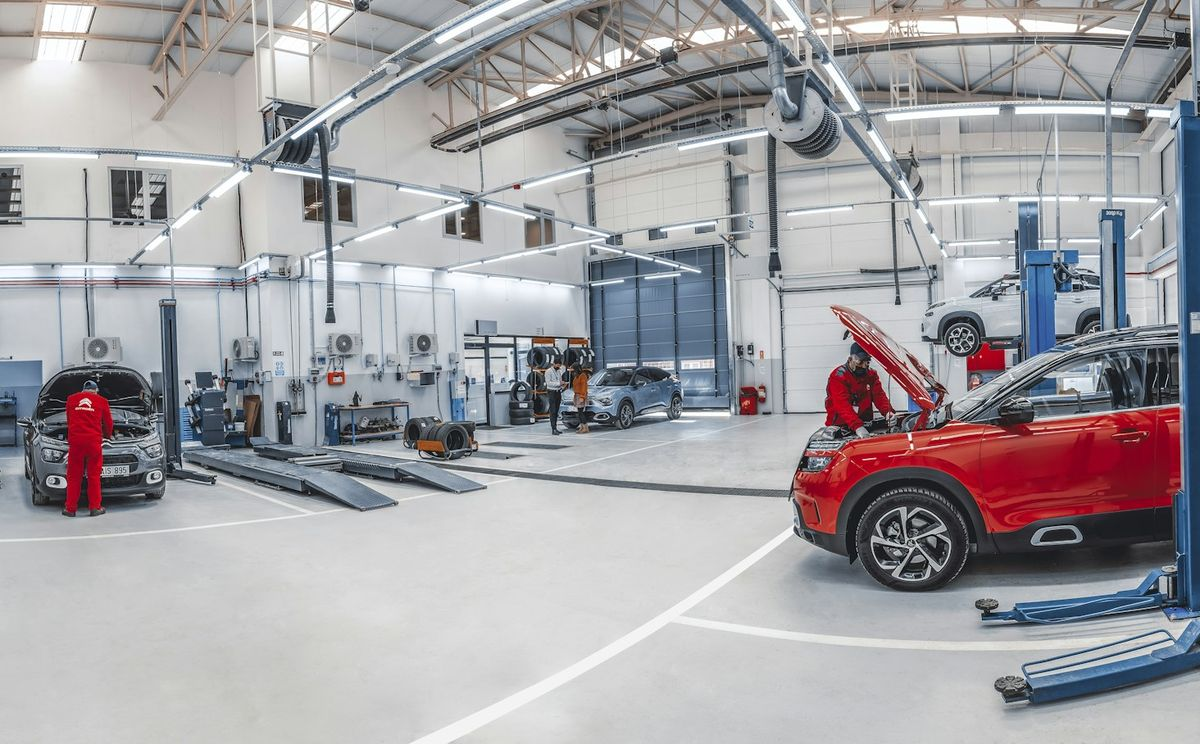
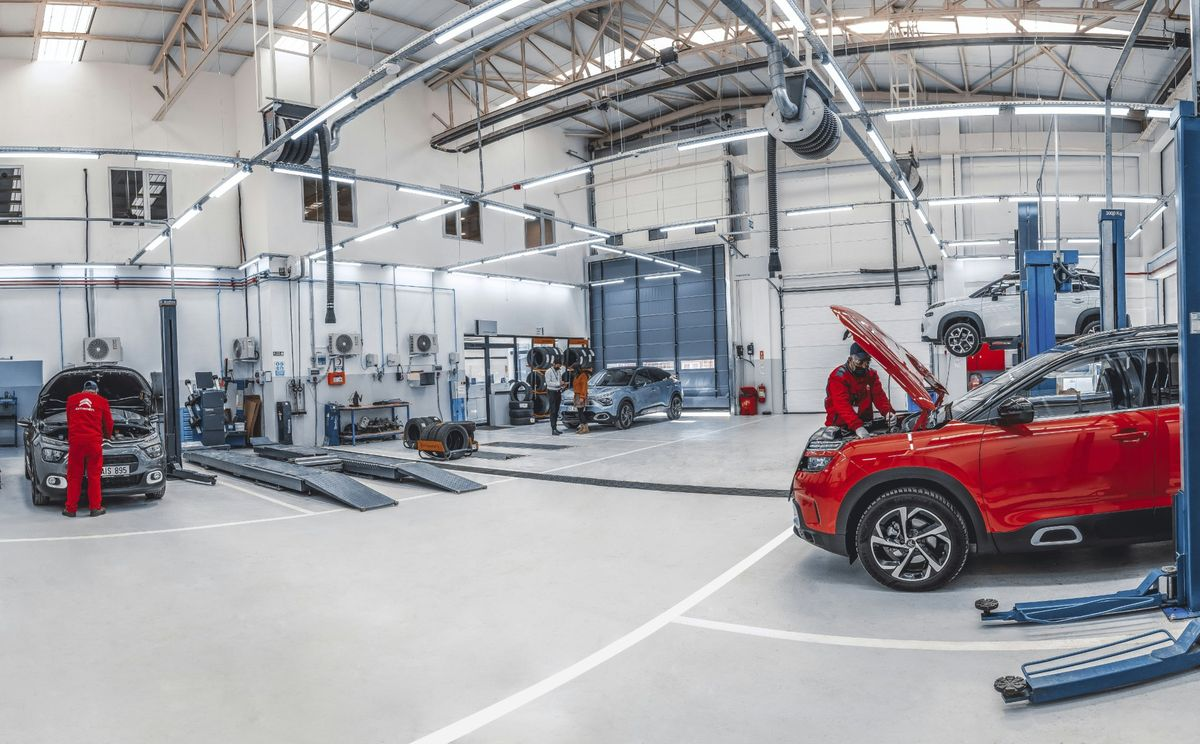
Trade photos from Ohad's full-resolution files
- Auto repair and medical heroes now come from the full-resolution originals, with a 2000w tier.
- Seven secondaries replaced with Ohad's files, each with a 1600w tier: consulting (a traveler at the window, kept quiet at 0.3), law firms (columns), veterinary (a vet giving a dog an injection), medical (exam gloves), trucking (at the pump), HVAC (flanged pipes; a tech testing a panel).
- CREDITS.txt: each photographer read off the photo's own Unsplash page. law-firms-2's source is still to confirm.

Claude-Session: https://claude.ai/code/session_011MWAFeWdP6UkK35f7g2iDX

diff --git a/for-hvac.html b/for-hvac.html
@@ -39,7 +39,7 @@
 <div class="cta gd">See my plan</div><div class="home"></div></div></div><img class="bz" src="img/rec/app/bezel.webp" alt=""></div><div class="celnav"><button>Found money</button><button>Trip goal</button></div><small class="ill">Example app screens. Hector is fictional. Illustrative mockup figures, est.</small></div></div>
 <div class="phb"><ul class="mprob"><li><b>✓</b><span>How HVAC spend codes, line by line.</span></li><li><b>✓</b><span>Every move waits for your yes.</span></li><li><b>✓</b><span>One number in dollars, every Friday.</span></li></ul><p class="msub"><span class="dk">Hector runs Desert Breeze Heating &amp; Air in Phoenix, AZ, a fictional HVAC business. Here is where HVAC spend hides money, and what the desk does about it, one pillar at a time.</span><span class="mb">Where HVAC spend hides money, and what the desk does about it.</span></p><div class="mctas"><a class="btn pk" href="book.html">Get your desk <span class="ar">→</span></a><a class="btn wa" href="https://wa.me/16199404040?text=First%20Officer%20Found%20Money%20Call%20site-hvac-1">💬 Text Your First Officer</a></div><a class="mcalc" href="calculator.html?ind=hvac">or run the HVAC example in the calculator <span class="ar">→</span></a><div class="mlogos"><img src="img/hero/prog/01-amex.jpg" alt="Amex"><img src="img/hero/prog/12-hyatt.jpg" alt="Hyatt"><img src="img/hero/prog/02-chase.jpg" alt="Chase"><img src="img/hero/prog/17-united.jpg" alt="United"><img src="img/hero/prog/47-virgin-atlantic.jpg" alt="Virgin Atlantic"><img src="img/hero/prog/18-delta.jpg" alt="Delta"><img src="img/hero/prog/25-aeroplan.jpg" alt="Aeroplan"><img src="img/hero/prog/09-marriott.jpg" alt="Marriott"><span>Every loyalty program. One desk to rule them all.</span></div><p class="mtm">Illustrative examples: owners and conversations are fictional, figures are estimates. Not affiliated with, endorsed or sponsored by any bank, airline or hotel program. Program names and logos are trademarks of their owners, shown for identification only. <a href="disclaimer.html">Important information</a></p></div>
 </div></section>
-<section class="sec pgs tsec" id="example"><div class="tsbg" aria-hidden="true"><picture><source type="image/webp" media="(max-width: 700px)" srcset="img/ind/hvac-3-800.webp"><source type="image/webp" srcset="img/ind/hvac-3-1200.webp"><img src="img/ind/hvac-3.jpg" alt="" width="1200" height="801" loading="lazy" decoding="async"></picture></div><div class="wrap">
+<section class="sec pgs tsec" id="example"><div class="tsbg" aria-hidden="true"><picture><source type="image/webp" media="(max-width: 700px)" srcset="img/ind/hvac-3-800.webp"><source type="image/webp" srcset="img/ind/hvac-3-1200.webp 1200w, img/ind/hvac-3-1600.webp 1600w" sizes="100vw"><img src="img/ind/hvac-3.jpg" alt="" width="1200" height="900" loading="lazy" decoding="async"></picture></div><div class="wrap">
 <div class="reveal"><span class="kick">01 · The example</span><h2 class="h2">Meet Hector.<br><span class="brush">One catch, in dollars.</span></h2><p class="lede"><span class="dk">Parts and equipment was earning 1x. On a 2x card it is worth about $4,800 a year, est. The desk shows the move first and waits for a yes.</span><span class="mb">Parts and equipment: 1x → 2x, about $4,800 a year, est.</span></p></div>
 <div class="ix2"><div class="tmx"><div class="tmh"><span class="chk">Example mix · HVAC</span><b>Hector, Desert Breeze Heating &amp; Air</b><small>Phoenix, AZ · about $36.7k a month on cards</small></div><ul><li><span>Parts and equipment</span><em>$22k/mo</em><b>1x → 2x</b></li><li><span>Fuel and vans</span><em>$7.5k/mo</em><b>1x → 3x</b></li><li><span>Phone, internet, ads</span><em>$7.2k/mo</em><b>1.5x → 4x</b></li></ul><div class="tmf"><span>Per $1, est.</span><b>1.1x → 2.6x</b></div><small class="ill">Fictional owner. Illustrative mockup figures, est.</small></div><div class="ixc"><span class="chk">How HVAC lines code</span><ul class="ixl"><li><span>Equipment and parts distributors</span><b class="r2">up to 2x</b></li><li><span>Refrigerant and consumables</span><b class="r2">up to 2x</b></li><li><span>Fleet fuel</span><b class="r4">up to 4x</b></li><li><span>Vehicle leases and upkeep</span><b class="r2">up to 2x</b></li></ul><p class="ixn">Rates a line can earn on a card that rewards it, inside yearly caps. Est. Your own codes decide.</p><div class="ixb"><a class="btn pk" href="calculator.html?ind=hvac">Run the Hector example <span class="ar">→</span></a><a class="btn gh" href="industries.html#trades">All 20 trades</a></div></div></div>
 </div></section>
@@ -54,7 +54,7 @@
 <p class="lede">The parts of your spend that earn the least today, and why. Each one is a routing move the desk can make with your OK.</p></div>
 <div class="nugs"><div class="nugc reveal"><div class="tile"><img src="img/fo-chevron-alpha.png" alt=""></div><div><h3>Refrigerant is sold to certified techs only</h3><p>Under 40 CFR 82.154(c), the buyer must be certified, or must employ a certified technician and provide proof. Who holds the card at the counter matters.</p></div><span class="n">01</span></div><div class="nugc reveal d1"><div class="tile"><img src="img/fo-chevron-alpha.png" alt=""></div><div><h3>Your supply house and your electrical supplier code differently</h3><p>Plumbing and heating is 5074. Electrical parts are 5065.</p></div><span class="n">02</span></div><div class="nugc reveal d2"><div class="tile"><img src="img/fo-chevron-alpha.png" alt=""></div><div><h3>Equipment buys bunch up before peak season</h3><p>That&#x27;s when statement timing matters most.</p></div><span class="n">03</span></div></div><a class="freego reveal d2" href="freebies.html#hvac"><span class="tile"><img src="img/fo-chevron-alpha.png" alt=""></span><span class="tx"><small>Free from the desk</small><b>32 free items just for HVAC companies</b><span>Plus everything for every business: codes, scripts, checklists and deadlines for an HVAC shop. Free to read.</span></span><span class="ar">→</span></a>
 </div></section>
-<section class="sec tsec" style="padding-top:20px" id="codes"><div class="tsbg" aria-hidden="true"><picture><source type="image/webp" media="(max-width: 700px)" srcset="img/ind/hvac-2-800.webp"><source type="image/webp" srcset="img/ind/hvac-2-1200.webp"><img src="img/ind/hvac-2.jpg" alt="" width="1200" height="807" loading="lazy" decoding="async"></picture></div><div class="wrap">
+<section class="sec tsec" style="padding-top:20px" id="codes"><div class="tsbg" aria-hidden="true"><picture><source type="image/webp" media="(max-width: 700px)" srcset="img/ind/hvac-2-800.webp"><source type="image/webp" srcset="img/ind/hvac-2-1200.webp 1200w, img/ind/hvac-2-1600.webp 1600w" sizes="100vw"><img src="img/ind/hvac-2.jpg" alt="" width="1200" height="800" loading="lazy" decoding="async"></picture></div><div class="wrap">
 <div class="reveal"><span class="kick">03 · The codes</span><h2 class="h2">Where your money<br><span class="brush">actually lands.</span></h2>
 <p class="lede">The merchant codes your vendors commonly run under. Check your own statements; the desk verifies every one before routing.</p></div>
 <div class="ledger reveal d1"><div class="lh"><b><i></i>Desk ledger · HVAC</b><span>Code · Category · Who usually runs it</span></div><div class="row"><span class="code">5074</span><span class="cat">Plumbing and Heating Equipment and Supplies</span><span class="who">usually <b>supply house</b></span></div><div class="row"><span class="code">5065</span><span class="cat">Electrical Parts and Equipment</span><span class="who">usually <b>electrical supplier</b></span></div><div class="row"><span class="code">5046</span><span class="cat">Commercial Equipment (NEC)</span><span class="who">usually <b>commercial equipment</b></span></div><div class="row"><span class="code">7513</span><span class="cat">Truck and Utility Trailer Rentals</span><span class="who">usually <b>truck rental</b></span></div><div class="row"><span class="code">1711</span><span class="cat">Heating, Plumbing, and Air Conditioning Contractors</span><span class="who">usually <b>your own terminal</b></span></div><div class="row"><span class="code">7394</span><span class="cat">Equipment, Tool, Furniture, and Appliance Rental and Leasing</span><span class="who">usually <b>equipment rental</b></span></div><div class="row"><span class="code">5172</span><span class="cat">Petroleum and Petroleum Products</span><span class="who">usually <b>bulk fuel delivery</b></span></div><div class="row"><span class="code">5542</span><span class="cat">Automated Fuel Dispensers</span><span class="who">usually <b>pump fuel</b></span></div><div class="row"><span class="code">5983</span><span class="cat">Fuel Dealers: Fuel Oil, Wood, Coal, and Liquefied Petroleum</span><span class="who">usually <b>propane dealer</b></span></div><div class="row"><span class="code">7623</span><span class="cat">Air Conditioning and Refrigeration Repair Shops</span><span class="who">usually <b>your own terminal, as a repair shop</b></span></div><div class="lf"><i>✓</i>Merchant codes are set by each merchant's processor. Your statement is the final word, and the desk reads it before any move.</div></div>

diff --git a/for-medical.html b/for-medical.html
@@ -20,7 +20,7 @@
 <body class="modes pgx pgr pgi" data-wa="https://wa.me/16199404040?text=First%20Officer%20Found%20Money%20Call%20site-medical-1" data-trade="Medical"><div id="fo-header"></div>
 
 <main id="main">
-<section class="mh ph " id="mh"><div class="mbg tbg" aria-hidden="true"><picture><source type="image/webp" srcset="img/ind/medical-exam-800.webp 800w, img/ind/medical-exam-1200.webp 1200w" sizes="100vw"><img src="img/ind/medical-exam.jpg" alt="" width="1200" height="744" fetchpriority="high" decoding="async"></picture></div>
+<section class="mh ph " id="mh"><div class="mbg tbg" aria-hidden="true"><picture><source type="image/webp" srcset="img/ind/medical-exam-800.webp 800w, img/ind/medical-exam-1200.webp 1200w, img/ind/medical-exam-2000.webp 2000w" sizes="100vw"><img src="img/ind/medical-exam.jpg" alt="" width="1200" height="744" fetchpriority="high" decoding="async"></picture></div>
 <div class="phw">
 <div class="pht"><span class="mpill"><i></i>First Officer for Medical</span><h1>Supply invoices. Lab fees.<br><span class="pk">Your biggest spend, earning least.</span></h1></div>
 <div class="phv"><div class="celcol phstar"><div class="phone cel " ><div class="scr"><div class="cs on" data-confetti="1"><div class="sb"><span>9:41</span><i><svg width="17" height="11" viewBox="0 0 17 11"><rect x="0" y="7" width="3" height="4" rx="1"/><rect x="4.5" y="5" width="3" height="6" rx="1"/><rect x="9" y="2.5" width="3" height="8.5" rx="1"/><rect x="13.5" y="0" width="3" height="11" rx="1"/></svg><u></u></i></div><div class="hd"><div class="lk"><img src="img/rec/chev.png" alt=""><span><b>First Officer</b><small>by UpNonStop™</small></span></div><span class="ex">Example</span></div>
@@ -39,7 +39,7 @@
 <div class="cta gd">See my plan</div><div class="home"></div></div></div><img class="bz" src="img/rec/app/bezel.webp" alt=""></div><div class="celnav"><button>Found money</button><button>Trip goal</button></div><small class="ill">Example app screens. Elena is fictional. Illustrative mockup figures, est.</small></div></div>
 <div class="phb"><ul class="mprob"><li><b>✓</b><span>How medical spend codes, line by line.</span></li><li><b>✓</b><span>Every move waits for your yes.</span></li><li><b>✓</b><span>One number in dollars, every Friday.</span></li></ul><p class="msub"><span class="dk">Elena runs Lakeside Family Clinic in Madison, WI, a fictional medical business. Here is where medical spend hides money, and what the desk does about it, one pillar at a time.</span><span class="mb">Where medical spend hides money, and what the desk does about it.</span></p><div class="mctas"><a class="btn pk" href="book.html">Get your desk <span class="ar">→</span></a><a class="btn wa" href="https://wa.me/16199404040?text=First%20Officer%20Found%20Money%20Call%20site-medical-1">💬 Text Your First Officer</a></div><a class="mcalc" href="calculator.html">or run your numbers in the calculator <span class="ar">→</span></a><div class="mlogos"><img src="img/hero/prog/01-amex.jpg" alt="Amex"><img src="img/hero/prog/12-hyatt.jpg" alt="Hyatt"><img src="img/hero/prog/02-chase.jpg" alt="Chase"><img src="img/hero/prog/17-united.jpg" alt="United"><img src="img/hero/prog/47-virgin-atlantic.jpg" alt="Virgin Atlantic"><img src="img/hero/prog/18-delta.jpg" alt="Delta"><img src="img/hero/prog/25-aeroplan.jpg" alt="Aeroplan"><img src="img/hero/prog/09-marriott.jpg" alt="Marriott"><span>Every loyalty program. One desk to rule them all.</span></div><p class="mtm">Illustrative examples: owners and conversations are fictional, figures are estimates. Not affiliated with, endorsed or sponsored by any bank, airline or hotel program. Program names and logos are trademarks of their owners, shown for identification only. <a href="disclaimer.html">Important information</a></p></div>
 </div></section>
-<section class="sec pgs tsec" id="example"><div class="tsbg" aria-hidden="true"><picture><source type="image/webp" media="(max-width: 700px)" srcset="img/ind/medical-3-800.webp"><source type="image/webp" srcset="img/ind/medical-3-1200.webp"><img src="img/ind/medical-3.jpg" alt="" width="1200" height="800" loading="lazy" decoding="async"></picture></div><div class="wrap">
+<section class="sec pgs tsec" id="example"><div class="tsbg" aria-hidden="true"><picture><source type="image/webp" media="(max-width: 700px)" srcset="img/ind/medical-3-800.webp"><source type="image/webp" srcset="img/ind/medical-3-1200.webp 1200w, img/ind/medical-3-1600.webp 1600w" sizes="100vw"><img src="img/ind/medical-3.jpg" alt="" width="1200" height="1500" loading="lazy" decoding="async"></picture></div><div class="wrap">
 <div class="reveal"><span class="kick">01 · The example</span><h2 class="h2">Meet Elena.<br><span class="brush">One catch, in dollars.</span></h2><p class="lede"><span class="dk">Practice software was earning 1x. On a 4x card it is worth about $2,590 a year, est. The desk shows the move first and waits for a yes.</span><span class="mb">Practice software: 1x → 4x, about $2,590 a year, est.</span></p></div>
 <div class="ix2"><div class="tmx"><div class="tmh"><span class="chk">Example mix · Medical</span><b>Elena, Lakeside Family Clinic</b><small>Madison, WI · about $63.5k a month on cards</small></div><ul><li><span>Medical and surgical supply</span><em>$38k/mo</em><b>1x → 2x</b></li><li><span>Lab and diagnostics</span><em>$12k/mo</em><b>1x → 2x</b></li><li><span>Malpractice and insurance</span><em>$9k/mo</em><b>1x → 1x</b></li></ul><div class="tmf"><span>Per $1, est.</span><b>1x → 2x</b></div><small class="ill">Fictional owner. Illustrative mockup figures, est.</small></div><div class="ixc"><span class="chk">How medical lines code</span><ul class="ixl"><li><span>Medical and surgical supply</span><b class="r2">up to 2x</b></li><li><span>Lab and diagnostics</span><b class="r2">up to 2x</b></li><li><span>Malpractice and insurance</span><b class="r1">often 1x</b></li><li><span>Practice software</span><b class="r4">up to 4x</b></li></ul><p class="ixn">Rates a line can earn on a card that rewards it, inside yearly caps. Est. Your own codes decide.</p><div class="ixb"><a class="btn pk" href="calculator.html">Run your numbers <span class="ar">→</span></a><a class="btn gh" href="industries.html#trades">All 20 trades</a></div></div></div>
 </div></section>

diff --git a/for-veterinary.html b/for-veterinary.html
@@ -39,7 +39,7 @@
 <div class="cta gd">See my plan</div><div class="home"></div></div></div><img class="bz" src="img/rec/app/bezel.webp" alt=""></div><div class="celnav"><button>Found money</button><button>Trip goal</button></div><small class="ill">Example app screens. Owen is fictional. Illustrative mockup figures, est.</small></div></div>
 <div class="phb"><ul class="mprob"><li><b>✓</b><span>How veterinary spend codes, line by line.</span></li><li><b>✓</b><span>Every move waits for your yes.</span></li><li><b>✓</b><span>One number in dollars, every Friday.</span></li></ul><p class="msub"><span class="dk">Owen runs Cedar Hill Animal Clinic in Lexington, KY, a fictional veterinary business. Here is where veterinary spend hides money, and what the desk does about it, one pillar at a time.</span><span class="mb">Where veterinary spend hides money, and what the desk does about it.</span></p><div class="mctas"><a class="btn pk" href="book.html">Get your desk <span class="ar">→</span></a><a class="btn wa" href="https://wa.me/16199404040?text=First%20Officer%20Found%20Money%20Call%20site-veterinary-1">💬 Text Your First Officer</a></div><a class="mcalc" href="calculator.html">or run your numbers in the calculator <span class="ar">→</span></a><div class="mlogos"><img src="img/hero/prog/01-amex.jpg" alt="Amex"><img src="img/hero/prog/12-hyatt.jpg" alt="Hyatt"><img src="img/hero/prog/02-chase.jpg" alt="Chase"><img src="img/hero/prog/17-united.jpg" alt="United"><img src="img/hero/prog/47-virgin-atlantic.jpg" alt="Virgin Atlantic"><img src="img/hero/prog/18-delta.jpg" alt="Delta"><img src="img/hero/prog/25-aeroplan.jpg" alt="Aeroplan"><img src="img/hero/prog/09-marriott.jpg" alt="Marriott"><span>Every loyalty program. One desk to rule them all.</span></div><p class="mtm">Illustrative examples: owners and conversations are fictional, figures are estimates. Not affiliated with, endorsed or sponsored by any bank, airline or hotel program. Program names and logos are trademarks of their owners, shown for identification only. <a href="disclaimer.html">Important information</a></p></div>
 </div></section>
-<section class="sec pgs tsec" id="example"><div class="tsbg" aria-hidden="true"><picture><source type="image/webp" media="(max-width: 700px)" srcset="img/ind/veterinary-3-800.webp"><source type="image/webp" srcset="img/ind/veterinary-3-1200.webp"><img src="img/ind/veterinary-3.jpg" alt="" width="1200" height="1500" loading="lazy" decoding="async"></picture></div><div class="wrap">
+<section class="sec pgs tsec" id="example"><div class="tsbg" aria-hidden="true"><picture><source type="image/webp" media="(max-width: 700px)" srcset="img/ind/veterinary-3-800.webp"><source type="image/webp" srcset="img/ind/veterinary-3-1200.webp 1200w, img/ind/veterinary-3-1600.webp 1600w" sizes="100vw"><img src="img/ind/veterinary-3.jpg" alt="" width="1200" height="1500" loading="lazy" decoding="async"></picture></div><div class="wrap">
 <div class="reveal"><span class="kick">01 · The example</span><h2 class="h2">Meet Owen.<br><span class="brush">One catch, in dollars.</span></h2><p class="lede"><span class="dk">Imaging and software was earning 1x. On a 4x card it is worth about $3,170 a year, est. The desk shows the move first and waits for a yes.</span><span class="mb">Imaging and software: 1x → 4x, about $3,170 a year, est.</span></p></div>
 <div class="ix2"><div class="tmx"><div class="tmh"><span class="chk">Example mix · Veterinary</span><b>Owen, Cedar Hill Animal Clinic</b><small>Lexington, KY · about $62.5k a month on cards</small></div><ul><li><span>Veterinary distributors</span><em>$32k/mo</em><b>1x → 2x</b></li><li><span>Pharmacy and vaccine stock</span><em>$14k/mo</em><b>1x → 2x</b></li><li><span>Lab and diagnostics</span><em>$11k/mo</em><b>1x → 2x</b></li></ul><div class="tmf"><span>Per $1, est.</span><b>1x → 2.2x</b></div><small class="ill">Fictional owner. Illustrative mockup figures, est.</small></div><div class="ixc"><span class="chk">How veterinary lines code</span><ul class="ixl"><li><span>Veterinary distributors</span><b class="r2">up to 2x</b></li><li><span>Pharmacy and vaccine stock</span><b class="r2">up to 2x</b></li><li><span>Lab and diagnostics</span><b class="r2">up to 2x</b></li><li><span>Imaging and software</span><b class="r4">up to 4x</b></li></ul><p class="ixn">Rates a line can earn on a card that rewards it, inside yearly caps. Est. Your own codes decide.</p><div class="ixb"><a class="btn pk" href="calculator.html">Run your numbers <span class="ar">→</span></a><a class="btn gh" href="industries.html#trades">All 20 trades</a></div></div></div>
 </div></section>

diff --git a/for-trucking.html b/for-trucking.html
@@ -54,7 +54,7 @@
 <p class="lede">The parts of your spend that earn the least today, and why. Each one is a routing move the desk can make with your OK.</p></div>
 <div class="nugs"><div class="nugc reveal"><div class="tile"><img src="img/fo-chevron-alpha.png" alt=""></div><div><h3>Inside vs at the pump</h3><p>The card networks define service stations (5541) and automated fuel dispensers (5542) as separate codes, so the same fill-up can code differently depending on where you pay.</p></div><span class="n">01</span></div><div class="nugc reveal d1"><div class="tile"><img src="img/fo-chevron-alpha.png" alt=""></div><div><h3>Washes and parking are their own categories</h3><p>A truck wash is 7542 and paid parking is 7523, not fuel.</p></div><span class="n">02</span></div></div><a class="freego reveal d2" href="freebies.html#trucking"><span class="tile"><img src="img/fo-chevron-alpha.png" alt=""></span><span class="tx"><small>Free from the desk</small><b>9 free items just for trucking companies</b><span>Plus everything for every business: codes, scripts, checklists and deadlines for a trucking company. Free to read.</span></span><span class="ar">→</span></a>
 </div></section>
-<section class="sec tsec" style="padding-top:20px" id="codes"><div class="tsbg" aria-hidden="true"><picture><source type="image/webp" media="(max-width: 700px)" srcset="img/ind/trucking-2-800.webp"><source type="image/webp" srcset="img/ind/trucking-2-1200.webp"><img src="img/ind/trucking-2.jpg" alt="" width="1200" height="1500" loading="lazy" decoding="async"></picture></div><div class="wrap">
+<section class="sec tsec" style="padding-top:20px" id="codes"><div class="tsbg" aria-hidden="true"><picture><source type="image/webp" media="(max-width: 700px)" srcset="img/ind/trucking-2-800.webp"><source type="image/webp" srcset="img/ind/trucking-2-1200.webp 1200w, img/ind/trucking-2-1600.webp 1600w" sizes="100vw"><img src="img/ind/trucking-2.jpg" alt="" width="1200" height="900" loading="lazy" decoding="async"></picture></div><div class="wrap">
 <div class="reveal"><span class="kick">03 · The codes</span><h2 class="h2">Where your money<br><span class="brush">actually lands.</span></h2>
 <p class="lede">The merchant codes your vendors commonly run under. Check your own statements; the desk verifies every one before routing.</p></div>
 <div class="ledger reveal d1"><div class="lh"><b><i></i>Desk ledger · Trucking</b><span>Code · Category · Who usually runs it</span></div><div class="row"><span class="code">5541</span><span class="cat">Service Stations (with or without Ancillary Services)</span><span class="who">usually <b>paying inside at the counter</b></span></div><div class="row"><span class="code">5542</span><span class="cat">Automated Fuel Dispensers</span><span class="who">usually <b>paying at the pump</b></span></div><div class="row"><span class="code">5532</span><span class="cat">Automotive Tire Stores</span><span class="who">usually <b>tire shop</b></span></div><div class="row"><span class="code">5013</span><span class="cat">Motor Vehicle Supplies and New Parts</span><span class="who">usually <b>parts supplier</b></span></div><div class="row"><span class="code">7542</span><span class="cat">Car Washes</span><span class="who">usually <b>truck wash</b></span></div><div class="row"><span class="code">7523</span><span class="cat">Parking Lots, Parking Meters and Garages</span><span class="who">usually <b>paid parking</b></span></div><div class="row"><span class="code">4214</span><span class="cat">Motor Freight Carriers and Trucking</span><span class="who">usually <b>your own terminal, or a carrier you pay</b></span></div><div class="row"><span class="code">4784</span><span class="cat">Tolls and Bridge Fees</span><span class="who">usually <b>tolls</b></span></div><div class="row"><span class="code">7534</span><span class="cat">Tire Retreading and Repair Shops</span><span class="who">usually <b>retreads and tire repair</b></span></div><div class="row"><span class="code">7549</span><span class="cat">Towing Services</span><span class="who">usually <b>towing</b></span></div><div class="lf"><i>✓</i>Merchant codes are set by each merchant's processor. Your statement is the final word, and the desk reads it before any move.</div></div>

diff --git a/for-consulting.html b/for-consulting.html
@@ -54,7 +54,7 @@
 <p class="lede">The parts of your spend that earn the least today, and why. Each one is a routing move the desk can make with your OK.</p></div>
 <div class="nugs"><div class="nugc reveal"><div class="tile"><img src="img/fo-chevron-alpha.png" alt=""></div><div><h3>One trip, five codes</h3><p>Flights (4511), hotels (7011), cars (4121), rail (4112) and rental cars (7512) are all separate codes.</p></div><span class="n">01</span></div><div class="nugc reveal d1"><div class="tile"><img src="img/fo-chevron-alpha.png" alt=""></div><div><h3>Client-billable travel</h3><p>Travel you pay and bill back to a client still shows up on your card statement.</p></div><span class="n">02</span></div></div><a class="freego reveal d2" href="freebies.html#consulting"><span class="tile"><img src="img/fo-chevron-alpha.png" alt=""></span><span class="tx"><small>Free from the desk</small><b>8 free items just for consulting firms</b><span>Plus everything for every business: codes, scripts, checklists and deadlines for a consulting firm. Free to read.</span></span><span class="ar">→</span></a>
 </div></section>
-<section class="sec tsec" style="padding-top:20px" id="codes"><div class="tsbg" aria-hidden="true"><picture><source type="image/webp" media="(max-width: 700px)" srcset="img/ind/consulting-2-800.webp"><source type="image/webp" srcset="img/ind/consulting-2-1200.webp"><img src="img/ind/consulting-2.jpg" alt="" width="1200" height="800" loading="lazy" decoding="async"></picture></div><div class="wrap">
+<section class="sec tsec" style="padding-top:20px" id="codes"><div class="tsbg tq" aria-hidden="true"><picture><source type="image/webp" media="(max-width: 700px)" srcset="img/ind/consulting-2-800.webp"><source type="image/webp" srcset="img/ind/consulting-2-1200.webp 1200w, img/ind/consulting-2-1600.webp 1600w" sizes="100vw"><img src="img/ind/consulting-2.jpg" alt="" width="1200" height="1500" loading="lazy" decoding="async"></picture></div><div class="wrap">
 <div class="reveal"><span class="kick">03 · The codes</span><h2 class="h2">Where your money<br><span class="brush">actually lands.</span></h2>
 <p class="lede">The merchant codes your vendors commonly run under. Check your own statements; the desk verifies every one before routing.</p></div>
 <div class="ledger reveal d1"><div class="lh"><b><i></i>Desk ledger · Consulting</b><span>Code · Category · Who usually runs it</span></div><div class="row"><span class="code">4511</span><span class="cat">Airlines, Air Carriers</span><span class="who">usually <b>flights</b></span></div><div class="row"><span class="code">7011</span><span class="cat">Lodging: Hotels, Motels, Resorts</span><span class="who">usually <b>hotels</b></span></div><div class="row"><span class="code">4121</span><span class="cat">Taxicabs and Limousines</span><span class="who">usually <b>ground transport</b></span></div><div class="row"><span class="code">4112</span><span class="cat">Passenger Railways</span><span class="who">usually <b>rail</b></span></div><div class="row"><span class="code">7512</span><span class="cat">Automobile Rental Agency</span><span class="who">usually <b>car rental</b></span></div><div class="row"><span class="code">7392</span><span class="cat">Management, Consulting, and Public Relations Services</span><span class="who">usually <b>your own terminal</b></span></div><div class="row"><span class="code">4722</span><span class="cat">Travel Agencies and Tour Operators</span><span class="who">usually <b>travel agencies</b></span></div><div class="row"><span class="code">7523</span><span class="cat">Parking Lots, Parking Meters and Garages</span><span class="who">usually <b>parking</b></span></div><div class="row"><span class="code">4784</span><span class="cat">Tolls and Bridge Fees</span><span class="who">usually <b>tolls</b></span></div><div class="lf"><i>✓</i>Merchant codes are set by each merchant's processor. Your statement is the final word, and the desk reads it before any move.</div></div>

diff --git a/for-law-firms.html b/for-law-firms.html
@@ -54,7 +54,7 @@
 <p class="lede">The parts of your spend that earn the least today, and why. Each one is a routing move the desk can make with your OK.</p></div>
 <div class="nugs"><div class="nugc reveal"><div class="tile"><img src="img/fo-chevron-alpha.png" alt=""></div><div><h3>Courier is its own code</h3><p>Courier services are 4215.</p></div><span class="n">01</span></div><div class="nugc reveal d1"><div class="tile"><img src="img/fo-chevron-alpha.png" alt=""></div><div><h3>Copy shops are 7338</h3><p>Quick copy and reproduction services.</p></div><span class="n">02</span></div></div><a class="freego reveal d2" href="freebies.html#law-firms"><span class="tile"><img src="img/fo-chevron-alpha.png" alt=""></span><span class="tx"><small>Free from the desk</small><b>15 free items just for law firms</b><span>Plus everything for every business: codes, scripts, checklists and deadlines for a law firm. Free to read.</span></span><span class="ar">→</span></a>
 </div></section>
-<section class="sec tsec" style="padding-top:20px" id="codes"><div class="tsbg" aria-hidden="true"><picture><source type="image/webp" media="(max-width: 700px)" srcset="img/ind/law-firms-2-800.webp"><source type="image/webp" srcset="img/ind/law-firms-2-1200.webp"><img src="img/ind/law-firms-2.jpg" alt="" width="1200" height="800" loading="lazy" decoding="async"></picture></div><div class="wrap">
+<section class="sec tsec" style="padding-top:20px" id="codes"><div class="tsbg" aria-hidden="true"><picture><source type="image/webp" media="(max-width: 700px)" srcset="img/ind/law-firms-2-800.webp"><source type="image/webp" srcset="img/ind/law-firms-2-1200.webp 1200w, img/ind/law-firms-2-1600.webp 1600w" sizes="100vw"><img src="img/ind/law-firms-2.jpg" alt="" width="1200" height="800" loading="lazy" decoding="async"></picture></div><div class="wrap">
 <div class="reveal"><span class="kick">03 · The codes</span><h2 class="h2">Where your money<br><span class="brush">actually lands.</span></h2>
 <p class="lede">The merchant codes your vendors commonly run under. Check your own statements; the desk verifies every one before routing.</p></div>
 <div class="ledger reveal d1"><div class="lh"><b><i></i>Desk ledger · Law Firms</b><span>Code · Category · Who usually runs it</span></div><div class="row"><span class="code">7338</span><span class="cat">Quick Copy, Reproduction, and Blueprinting Services</span><span class="who">usually <b>copy and print</b></span></div><div class="row"><span class="code">4215</span><span class="cat">Courier Services: Air and Ground, and Freight Forwarders</span><span class="who">usually <b>courier</b></span></div><div class="row"><span class="code">8111</span><span class="cat">Legal Services and Attorneys</span><span class="who">usually <b>your own terminal</b></span></div><div class="row"><span class="code">9211</span><span class="cat">Court Costs, Including Alimony and Child Support</span><span class="who">usually <b>court costs and filing fees</b></span></div><div class="row"><span class="code">9222</span><span class="cat">Fines</span><span class="who">usually <b>fines</b></span></div><div class="row"><span class="code">9402</span><span class="cat">Postal Services: Government Only</span><span class="who">usually <b>USPS</b></span></div><div class="row"><span class="code">7393</span><span class="cat">Detective, Protective and Security Services</span><span class="who">usually <b>investigators</b></span></div><div class="lf"><i>✓</i>Merchant codes are set by each merchant's processor. Your statement is the final word, and the desk reads it before any move.</div></div>

diff --git a/for-auto-repair.html b/for-auto-repair.html
@@ -20,7 +20,7 @@
 <body class="modes pgx pgr pgi" data-wa="https://wa.me/16199404040?text=First%20Officer%20Found%20Money%20Call%20site-auto-repair-1" data-trade="Auto repair"><div id="fo-header"></div>
 
 <main id="main">
-<section class="mh ph " id="mh"><div class="mbg tbg" aria-hidden="true"><picture><source type="image/webp" srcset="img/ind/auto-repair-shop-800.webp 800w, img/ind/auto-repair-shop-1200.webp 1200w" sizes="100vw"><img src="img/ind/auto-repair-shop.jpg" alt="" width="1200" height="744" fetchpriority="high" decoding="async"></picture></div>
+<section class="mh ph " id="mh"><div class="mbg tbg" aria-hidden="true"><picture><source type="image/webp" srcset="img/ind/auto-repair-shop-800.webp 800w, img/ind/auto-repair-shop-1200.webp 1200w, img/ind/auto-repair-shop-2000.webp 2000w" sizes="100vw"><img src="img/ind/auto-repair-shop.jpg" alt="" width="1200" height="744" fetchpriority="high" decoding="async"></picture></div>
 <div class="phw">
 <div class="pht"><span class="mpill"><i></i>First Officer for Auto repair</span><h1>Parts runs. Shop supplies.<br><span class="pk">On the right card?</span></h1></div>
 <div class="phv"><div class="celcol phstar"><div class="phone cel " ><div class="scr"><div class="cs on" data-confetti="1"><div class="sb"><span>9:41</span><i><svg width="17" height="11" viewBox="0 0 17 11"><rect x="0" y="7" width="3" height="4" rx="1"/><rect x="4.5" y="5" width="3" height="6" rx="1"/><rect x="9" y="2.5" width="3" height="8.5" rx="1"/><rect x="13.5" y="0" width="3" height="11" rx="1"/></svg><u></u></i></div><div class="hd"><div class="lk"><img src="img/rec/chev.png" alt=""><span><b>First Officer</b><small>by UpNonStop™</small></span></div><span class="ex">Example</span></div>

diff --git a/assets/fo-tradephoto.css b/assets/fo-tradephoto.css
@@ -2,6 +2,7 @@
    Two more photos from the same world sit behind the worked example and the code ledger, faded the same way,
    so the setting carries down the page. Cards stay white on top; nothing floats. */
 .mbg.tbg.tq img{opacity:.3}
+.tsbg.tq img{opacity:.3}
 .tsec{position:relative;isolation:isolate}
 .tsbg{position:absolute;left:0;right:0;top:0;bottom:0;z-index:-1;overflow:hidden;pointer-events:none}
 .tsbg picture,.tsbg img{position:absolute;left:0;top:0;width:100%;height:100%;display:block}
